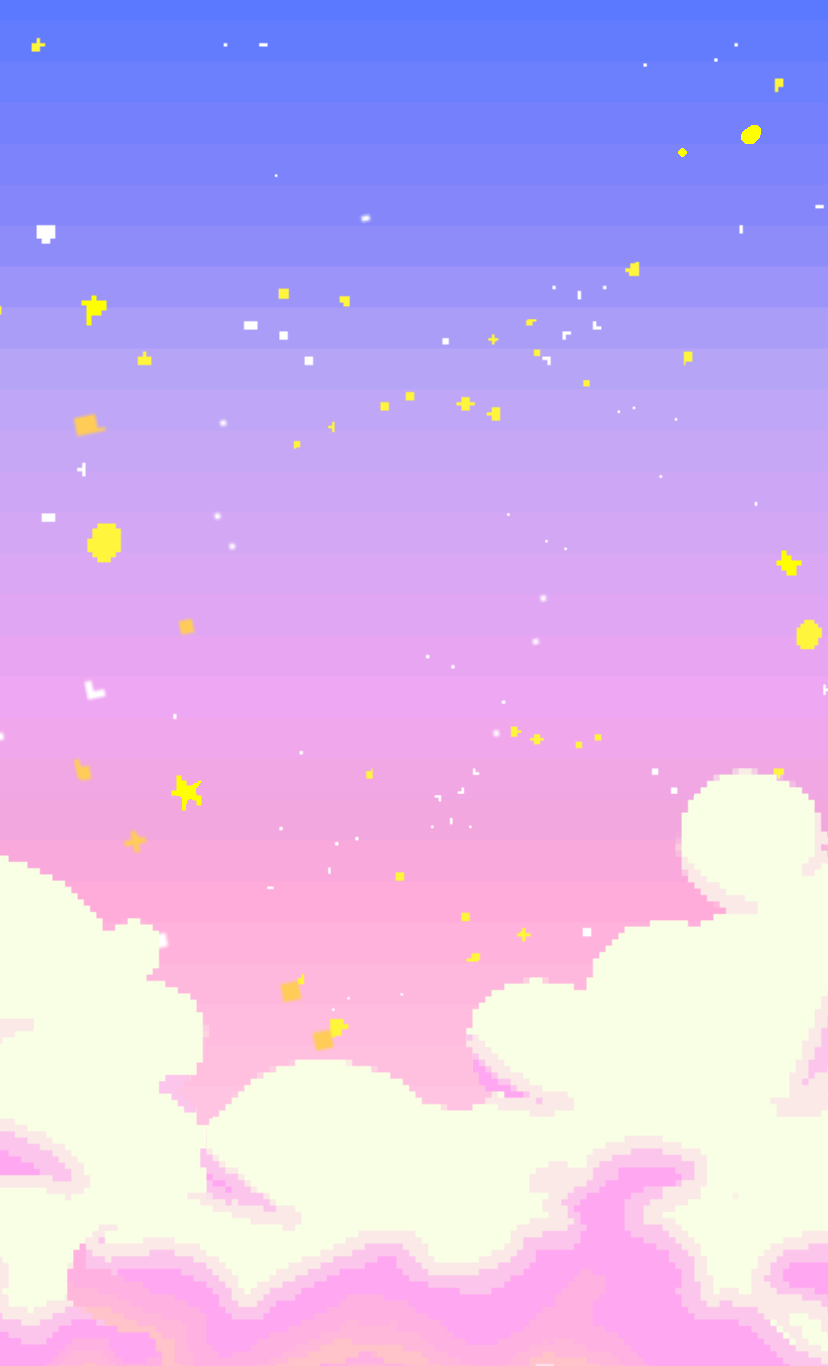
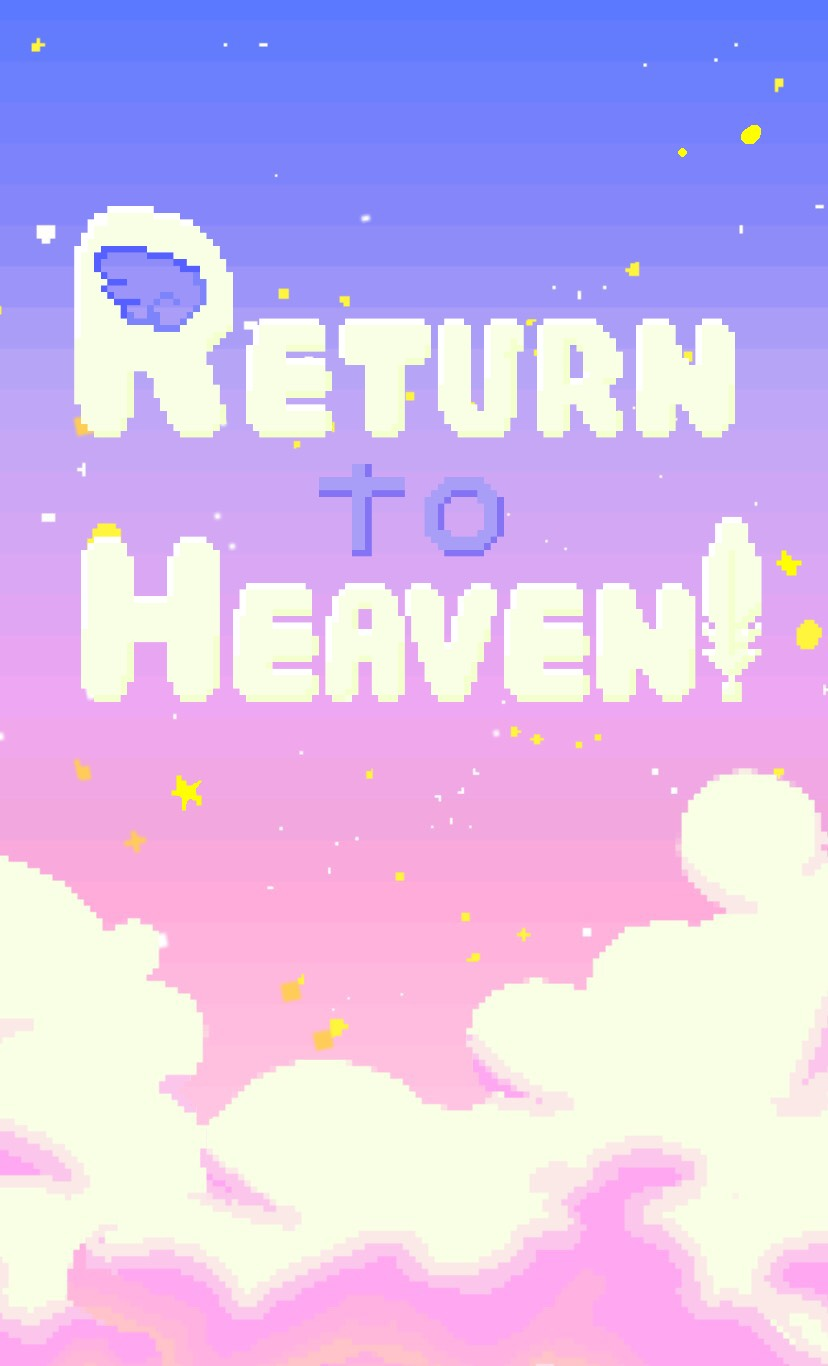
add something

Changed region(s): [[0.0906, 0.123, 0.9662, 0.5227], [0.2114, 0.5534, 0.2415, 0.5842]]

diff --git a/js/myScript.js b/js/myScript.js
@@ -1,3 +1,4 @@
+// TODO: 難易度調整
 class Main extends Phaser.Scene {
   constructor() {
     super('Main');
@@ -29,6 +30,7 @@ class Main extends Phaser.Scene {
     const stageHeight = 4000;
     const width = this.scale.width;
     const height = this.scale.height;
+    const _this = this;
     // カメラと世界の範囲を設定
     this.cameras.main.setBounds(0, 0, 828, stageHeight);
     this.physics.world.setBounds(0, 0, 828, stageHeight);
@@ -42,6 +44,7 @@ class Main extends Phaser.Scene {
     }
     // ゲームオーバー処理
     let gameOver = function (player, enemy) {
+      this.flyingSE.stop();
       this.backgroundMusic.stop();
       this.scene.start('GameOver');
     }
@@ -70,7 +73,25 @@ class Main extends Phaser.Scene {
       repeat: -1
     });
     this.anims.create({
-      key: 'left',
+      key: 'leftwalk',
+      frames: this.anims.generateFrameNumbers('player', {
+        start: 0,
+        end: 0
+      }),
+      frameRate: 1,
+      repeat: -1
+    });
+    this.anims.create({
+      key: 'rightwalk',
+      frames: this.anims.generateFrameNumbers('player', {
+        start: 4,
+        end: 4
+      }),
+      frameRate: 1,
+      repeat: -1
+    });
+    this.anims.create({
+      key: 'leftfly',
       frames: this.anims.generateFrameNumbers('player', {
         start: 0,
         end: 1
@@ -79,7 +100,7 @@ class Main extends Phaser.Scene {
       repeat: -1
     });
     this.anims.create({
-      key: 'right',
+      key: 'rightfly',
       frames: this.anims.generateFrameNumbers('player', {
         start: 4,
         end: 5
@@ -108,7 +129,7 @@ class Main extends Phaser.Scene {
     };
     this.backgroundMusic.addMarker(loopMaker);
     this.backgroundMusic.play('loop', {
-      delay: 0
+      delay: 0.5
     });
     // 背景
     this.add.image(width/2, height/2, 'bgLayer1').setScrollFactor(0);
@@ -125,7 +146,9 @@ class Main extends Phaser.Scene {
     this.clouds.create(900, stageHeight-2600, 'cloud');
     this.clouds.create(300, stageHeight-2250, 'cloud');
     this.clouds.create(800, stageHeight-2000, 'cloud');
-    this.clouds.create(50, stageHeight-1850, 'cloud');
+    // 要検討@難易度調整: 1850ではすきまをプレイヤーが抜けられない
+    this.clouds.create(50, stageHeight-1870, 'cloud');
+    //this.clouds.create(50, stageHeight-1850, 'cloud');
     this.clouds.create(300, stageHeight-1550, 'cloud');
     this.clouds.create(800, stageHeight-1350, 'cloud');
     this.clouds.create(50, stageHeight-1050, 'cloud');
@@ -153,14 +176,7 @@ class Main extends Phaser.Scene {
     this.goal.scale = 1.2;
     this.goal.setSize(150, 150, 1, 1);
     // プレイヤー
-    //↓初期位置
     this.player = this.physics.add.sprite(600, stageHeight-200, 'player');
-    // debug
-    //↓ゴールの手前
-    //this.player = this.physics.add.sprite(600, stageHeight-1400, 'player');
-    //↓ステージの一番上
-    //this.player = this.physics.add.sprite(300, stageHeight-2500, 'player');
-    //
     this.player.setSize(80, 170, 1, 1);
     this.player.setBounce(0.2);
     this.player.setCollideWorldBounds(true);
@@ -239,25 +255,27 @@ class Main extends Phaser.Scene {
         this.player.anims.play('jump', true);
       } else if (this.cursors.right.isDown) {
         this.player.setVelocityX(400);
-        this.player.anims.play('right', true);
+        this.player.anims.play('rightwalk', true);
+        this.flyingSE.stop();
       } else if (this.cursors.left.isDown) {
         this.player.setVelocityX(-400);
-        this.player.anims.play('left', true);
+        this.player.anims.play('leftwalk', true);
+        this.flyingSE.stop();
       } else {
         // 要検討@難易度調整: これコメントアウトすると雲がつるつるになる。
         //this.player.setVelocityX(0);
         // 羽ばたき音停止
         this.flyingSE.stop();
-        // 存在しないkeyを指定するとそのポイントで停止できる。(あまり良くない実装方法...)
-        this.player.anims.play('idle', true);
+        // 1フレーム目でアニメーション停止
+        this.player.anims.stop(null, true);
       }
     } else {
       if (this.cursors.right.isDown) {
         this.player.setVelocityX(400);
-        this.player.anims.play('right', true);
+        this.player.anims.play('rightfly', true);
       } else if (this.cursors.left.isDown) {
         this.player.setVelocityX(-400);
-        this.player.anims.play('left', true);
+        this.player.anims.play('leftfly', true);
       }
     }
   }
@@ -272,6 +290,7 @@ class FirstLoading extends Phaser.Scene {
     const width = this.scale.width;
     const height = this.scale.height;
     const _this = this;
+    this.isLoadCompleted = false;
     //
     let loadingArea = this.add.graphics();
     loadingArea.fillStyle(0x222222, 1);
@@ -282,9 +301,10 @@ class FirstLoading extends Phaser.Scene {
     progressArea.fillRect(240, height/2, 320, 50);
     let progressBar = this.add.graphics();
     //
-    let loadingText = this.add.text((width/2)-250, (height/3)+100, 'Now Loading...', {
+    let loadingText = this.add.text((width/2)-220, (height/3)+100, 'Now Loading...', {
       fontSize: '64px',
-      fill: '#ffffff'
+      fill: '#ffffff',
+      fontFamily: 'DotGothic16'
     });
     this.load.on('progress', function (value) {
         progressBar.clear();
@@ -293,15 +313,19 @@ class FirstLoading extends Phaser.Scene {
     });
     this.load.on('complete', function () {
       loadingText.destroy();
-      loadingText = _this.add.text((width/2)-180, (height/3)+100, 'Complete!', {
+      loadingText = _this.add.text((width/2)-290, (height/3)+100, 'Loading Completed!', {
         fontSize: '64px',
-        fill: '#ffffff'
+        fill: '#ffffff',
+        fontFamily: 'DotGothic16'
       });
-      _this.add.text(90, (height/3)*2, 'NEXT : SPACE KEY', {
+      _this.add.text(150, (height/6)*5, 'NEXT : SPACE KEY', {
         fontSize: '64px',
-        fill: '#ffffff'
+        fill: '#ffffff',
+        fontFamily: 'DotGothic16'
       })
+      _this.isLoadCompleted = true;
     });
+    // TODO: FirstLoadingで全素材をLoadしたい
     this.load.audio('selectSE', 'asset/sounds/select.mp3');
   }
   create() {
@@ -309,7 +333,7 @@ class FirstLoading extends Phaser.Scene {
     this.spaceKey = this.input.keyboard.addKey(Phaser.Input.Keyboard.KeyCodes.SPACE);
   }
   update() {
-    if (this.spaceKey.isDown) {
+    if (this.spaceKey.isDown && this.isLoadCompleted) {
       this.selectSE.play();
       this.scene.start('Title');
     }
@@ -343,16 +367,13 @@ class Title extends Phaser.Scene {
     };
     this.titleBGM.addMarker(loopMaker);
     this.titleBGM.play('loop', {
-      delay: 1
+      delay: 0.5
     });
-    // TODO: タイトル画面
-    this.add.text((width/2)-70, height/3, 'TITLE', {
+    this.add.text(150, (height/6)*5, 'Press SPACE KEY!', {
       fontSize: '64px',
-      fill: 'red'
-    });
-    this.add.text(90, (height/3)*2, 'START : SPACE KEY', {
-      fontSize: '64px',
-      fill: '#000000'
+      //fill: '#000000',
+      fill: '#8586fb',
+      fontFamily: 'DotGothic16'
     })
   }
   update() {
@@ -381,16 +402,16 @@ class GameOver extends Phaser.Scene {
     this.gameOverSound = this.sound.add('gameOverSound');
     this.gameOverSound.play();
     this.spaceKey = this.input.keyboard.addKey(Phaser.Input.Keyboard.KeyCodes.SPACE);
-    this.gameOverImg = this.add.image(400, 300, 'gameOverImg');
-    this.exprainText = this.add.text(180, 400, 'RESTART : Press SPACE KEY', {
-      fontSize: '32px',
-      fill: '#ffffff'
-    });
+    this.gameOverImg = this.add.image(width/2, height/2, 'gameOverImg');
+    this.add.text(120, height-150, 'RESTART : SPACE KEY', {
+      fontSize: '64px',
+      fill: '#ffffff',
+      fontFamily: 'DotGothic16'
+    })
   }
   update() {
     if (this.spaceKey.isDown) {
       this.gameOverSound.stop();
-      this.gameOverImg.destroy();
       this.selectSE.play();
       this.scene.start('Main');
     }
@@ -433,17 +454,16 @@ class GameClear extends Phaser.Scene {
       this.gameClearImg = this.add.image(width/2, height/2, 'gameClearImg3');
     }
     this.spaceKey = this.input.keyboard.addKey(Phaser.Input.Keyboard.KeyCodes.SPACE);
-    // TODO: テキストをよき感じに入れる(画像埋め込みでも良いかも)
-    this.exprainText = this.add.text(180, 400, 'RESTART : Press SPACE KEY', {
-      fontSize: '32px',
-      fill: '#ffffff'
-    });
+    this.add.text(120, height-150, 'RESTART : SPACE KEY', {
+      fontSize: '64px',
+      fill: '#000000',
+      fontFamily: 'DotGothic16'
+    })
   }
   update() {
     if (this.spaceKey.isDown) {
       this.gameClearSoundNormal.stop();
       this.gameClearSoundComplete.stop();
-      this.gameClearImg.destroy();
       this.selectSE.play();
       this.scene.start('Main');
     }
@@ -467,13 +487,9 @@ let config = {
       gravity: {
         y: 400
       },
-      // debug
       debug: false
-      //debug: true
     }
   },
-  // debug
   scene: [FirstLoading, Title, Main, GameOver, GameClear]
-  //scene: [Main, GameOver, GameClear]
 };
 let fane = new Phaser.Game(config);
